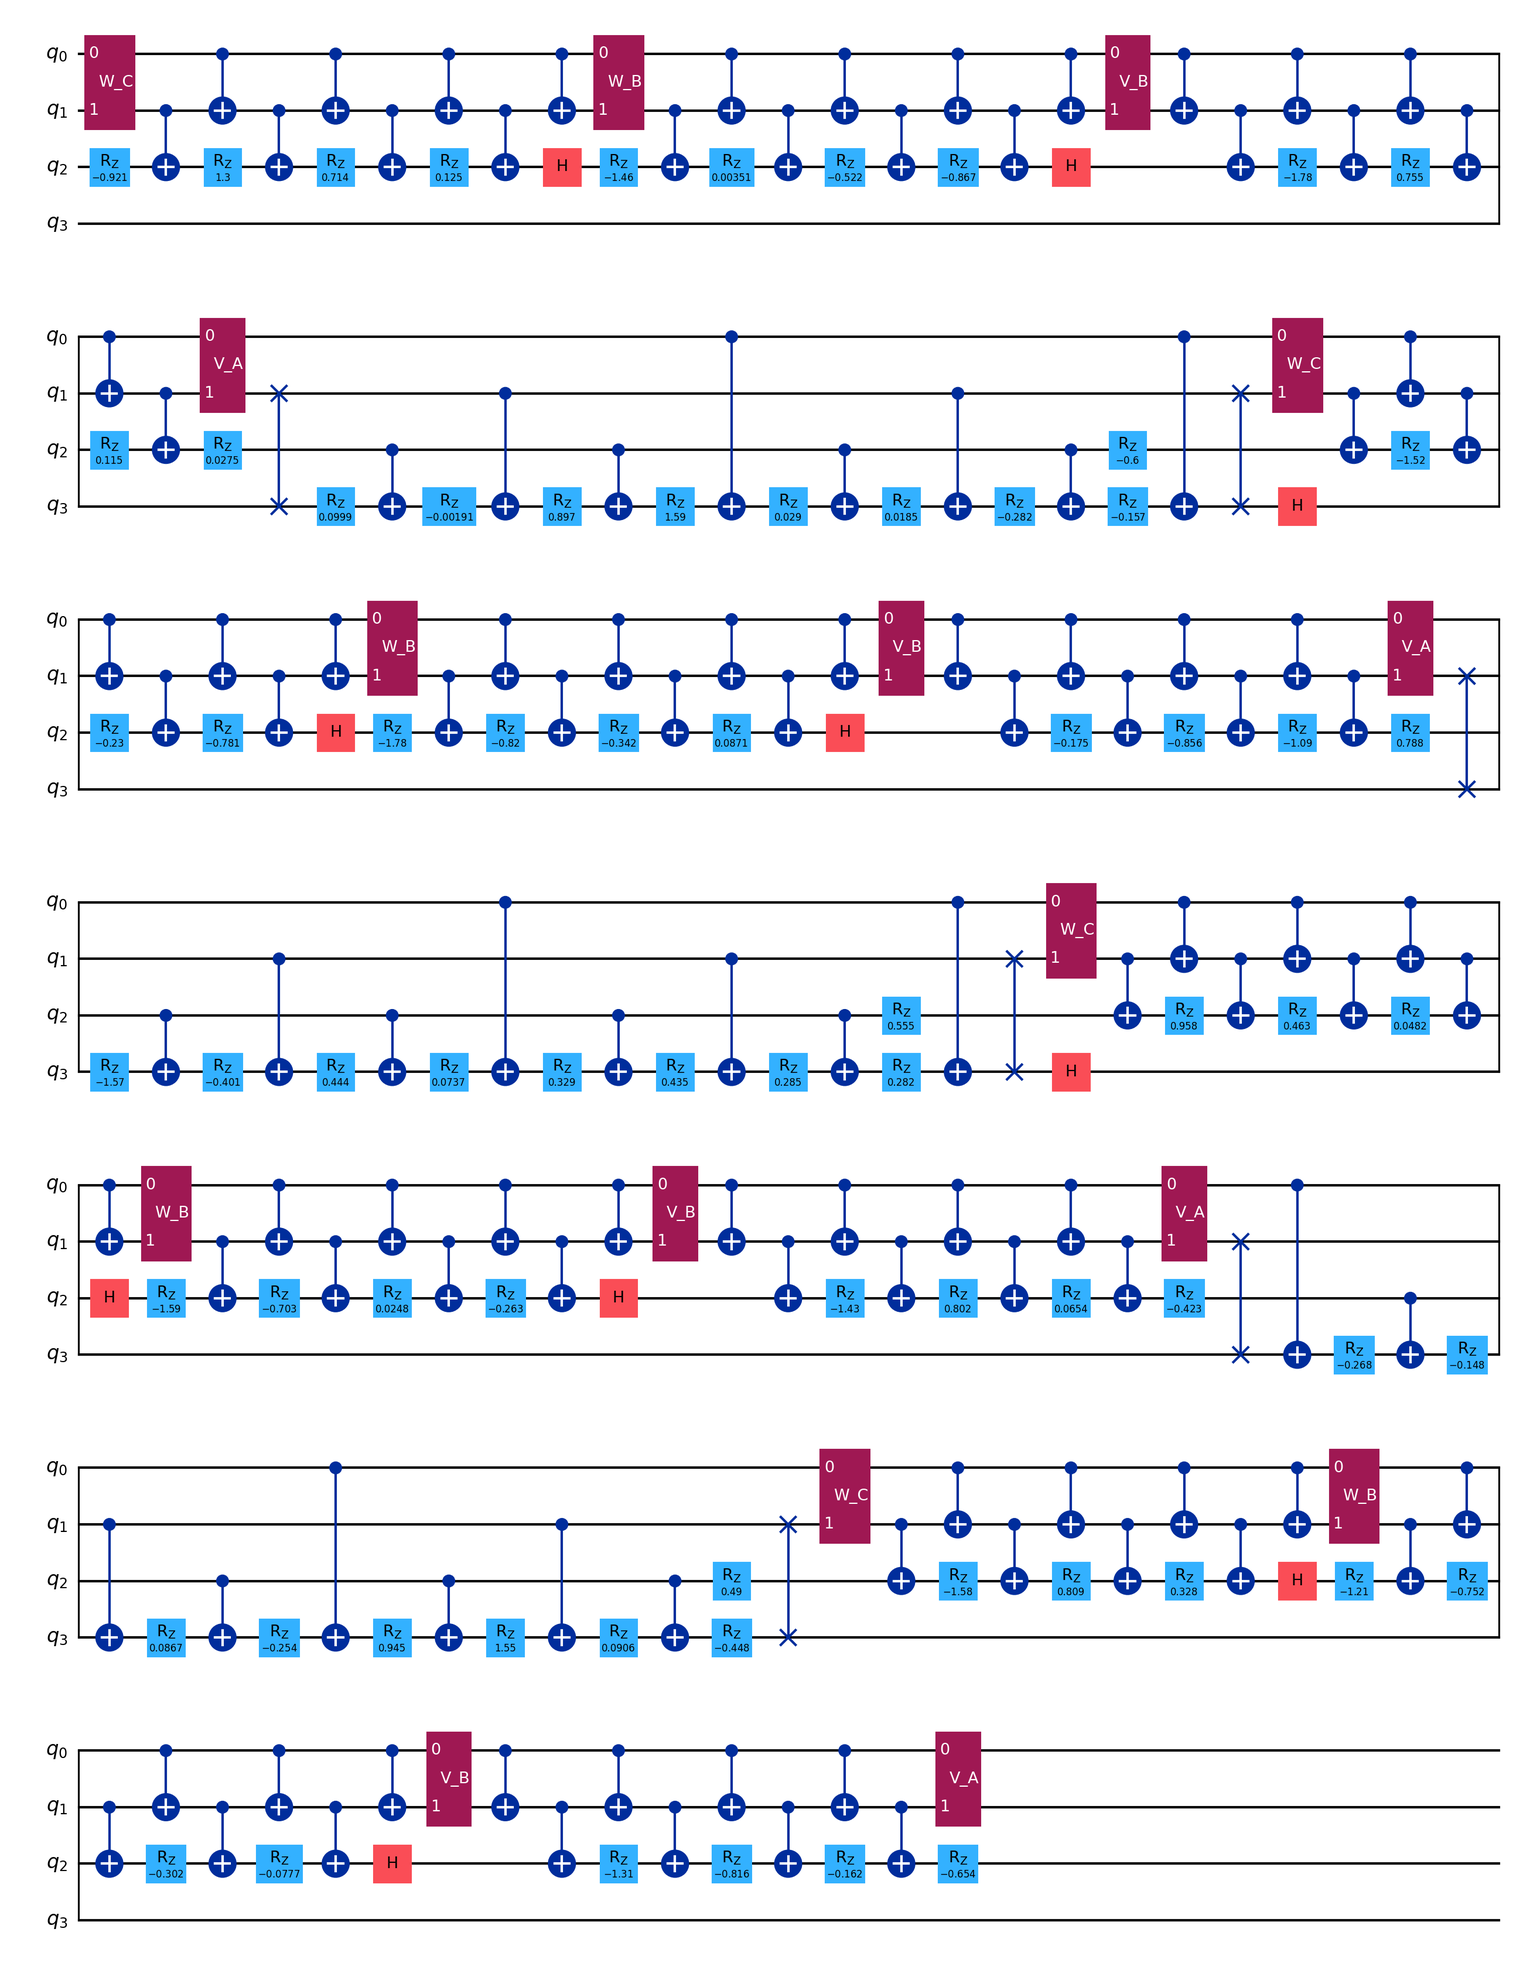
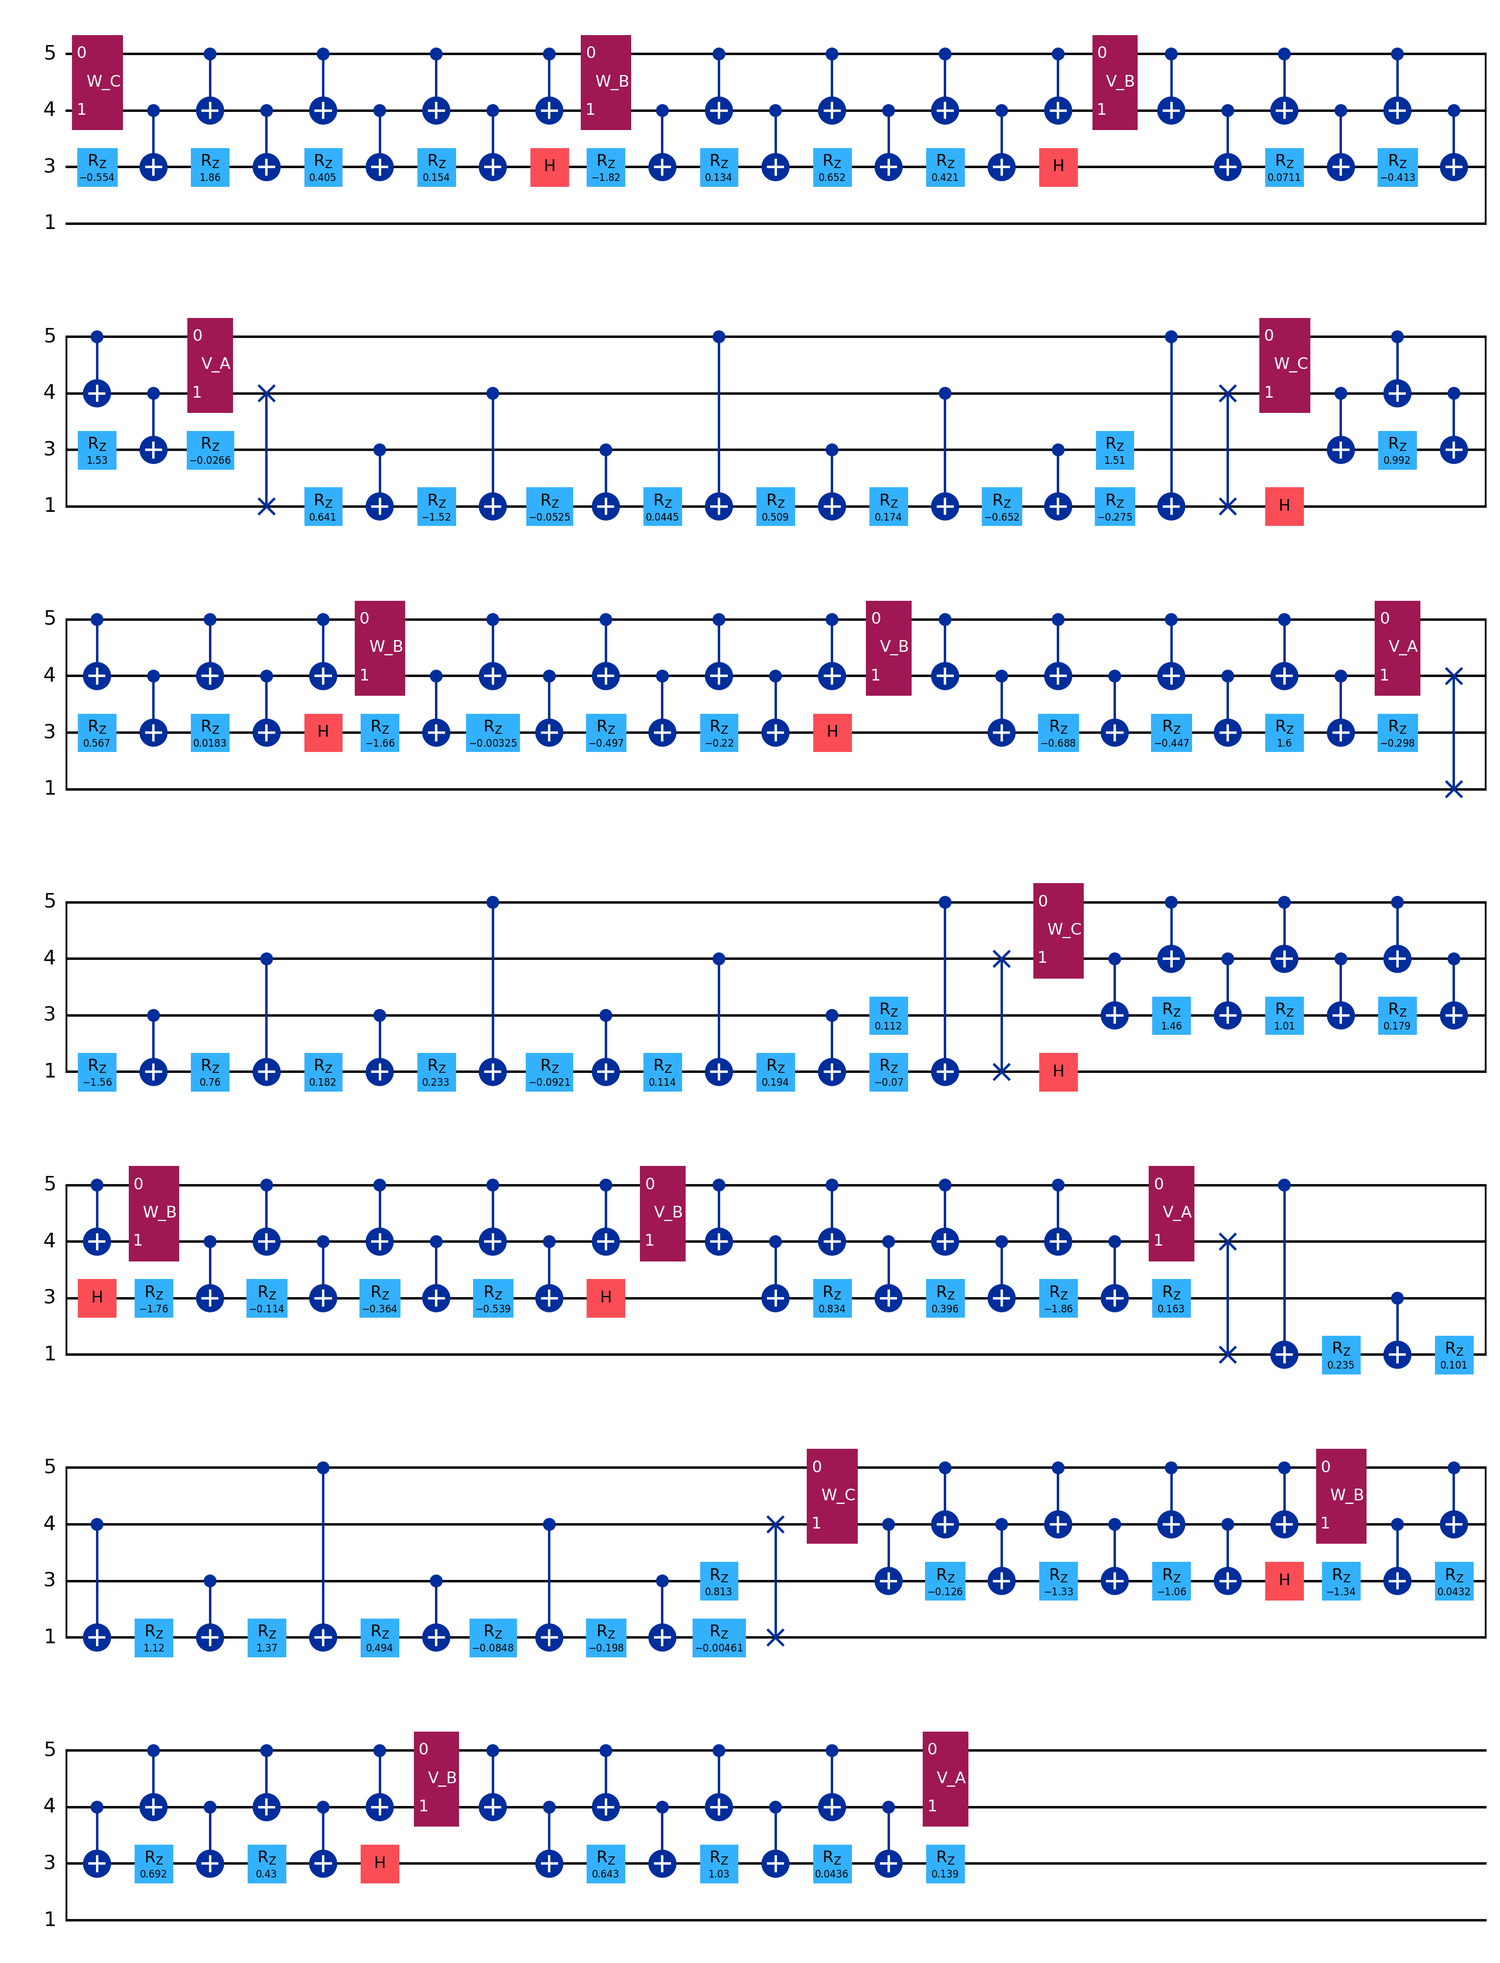
The algorithm now works for 3, 4 and 5 qubit unitaries. For 6, it works sometimes and sometimes not. It might be in how the algo handles the disconnected graph. Also check CNOT unitary construction. Also, bad news from benchmarking. The strategy is all wrong. Instead of trying to optimize CNOT count

diff --git a/routing_for_QSD/block_zxz.py b/routing_for_QSD/block_zxz.py
@@ -4,7 +4,7 @@ import json
 from utils import extract_single_qubit_unitaries, extract_angles, möttönen_transformation, generate_U, check_equivalence_up_to_phase, get_path
 from architecture_aware_routing import RoutedMultiplexer
 from collections import deque
-from qiskit.circuit import QuantumCircuit
+from qiskit.circuit import QuantumCircuit, QuantumRegister
 from qiskit.circuit.library import UnitaryGate
 from qiskit.compiler import transpile
 from qiskit_aer import Aer
@@ -25,6 +25,7 @@ class BlockZXZ(object):
 
     def print_circ_unitary(self, qc):
         qc = qc.copy()
+        print(qc.count_ops())
         qc = transpile(qc, optimization_level=0, basis_gates=['cx', 'h', 'x', 'rz', 'rx', 'ry'])
         qc.save_unitary()
         simulator = Aer.get_backend('aer_simulator')
@@ -42,9 +43,9 @@ class BlockZXZ(object):
             fig = qc.draw(output="mpl", interactive=True, filename=filename)
         else:
             fig = qc.draw(output="mpl", interactive=True)
-        plt.show()
+        # plt.show()
 
-    def get_closest_unitary(matrix):
+    def get_closest_unitary(self, matrix):
         """
         Computes the closest unitary matrix to the input using SVD.
         This fixes the precision loss from copy-pasting.
@@ -92,6 +93,7 @@ class BlockZXZ(object):
             self.diag = diag_u
         else:
             gates = three_cnot_decomposition(u, new_source)
+        # gates = three_cnot_decomposition(u, new_source)
         self.gate_queue.append(gates)
 
         _ = self.swap_to_adjacent(self.two_qubit_unitary_path)
@@ -180,28 +182,30 @@ class BlockZXZ(object):
             self.routed_multiplexers[0] = routed_multiplexer
             self.total_qubits = num_qubits
         else:
-            self.routed_multiplexers[recursion_level].multiplexer_angles = transformed_angles_C
+            self.routed_multiplexers[recursion_level].multiplexer_angles = transformed_angles_C #Check this
+            self.original_multiplexers[recursion_level].multiplexer_angles = transformed_angles_C 
 
         
 
         def compute_multiplexers(B_tilde, execute_only = False):
             _, gates_C = self.routed_multiplexers[recursion_level].map_grey_gates_to_arch(set_last_two_adjacent = True, execute_only=execute_only)
             gates_A = self.routed_multiplexers[recursion_level].replace_mapped_angles(transformed_angles_A, True)
+            
 
             cx_gates_merged = 0
-            # while True:
-            #     popped_gate = gates_C.pop()
-            #     if popped_gate[0] == "RZ" or popped_gate[0] == target_qubit + 1 or popped_gate[1] == target_qubit + 1: #These CNOTs (or RZ) cannot be merged into the neighboring unitaries
-            #         gates_C.append(popped_gate)
-            #         break
+            while True:
+                popped_gate = gates_C.pop()
+                if popped_gate[0] == "RZ" or popped_gate[0] >= target_qubit + 1 or popped_gate[1] >= target_qubit + 1: #These CNOTs (or RZ) cannot be merged into the neighboring unitaries
+                    gates_C.append(popped_gate)
+                    break
 
-            #     gates_A.popleft()
-            #     unitary = self.get_cnot_unitary(num_qubits, popped_gate)
+                gates_A.popleft()
+                unitary = self.get_cnot_unitary(num_qubits, popped_gate)
 
-            #     if popped_gate[1] == target_qubit: unitary = np.kron(H, I) @ unitary @ np.kron(H, I) #Position of H might vary
+                if popped_gate[1] == target_qubit: unitary = np.kron(H, I) @ unitary @ np.kron(H, I) #Position of H might vary
 
-            #     B_tilde = unitary @ B_tilde @ unitary
-            #     cx_gates_merged += 1
+                B_tilde = unitary @ B_tilde @ unitary
+                cx_gates_merged += 1
 
             B_11 = B_tilde[:block_len, :block_len]
             B_22 = B_tilde[block_len:, block_len:]
@@ -224,8 +228,8 @@ class BlockZXZ(object):
 
         if self.optimal_multiplexers.get(recursion_level) != None:
             self.routed_multiplexers[recursion_level] = self.optimal_multiplexers[recursion_level].copy() #If the optimal routing has already been found, we use it instead of computing it again
+            self.routed_multiplexers[recursion_level].multiplexer_angles = transformed_angles_C
             skip_swap_search = True
-        
         gates_A, gates_C, V_B, gates_B, W_B, path_to_furthest, current_recursion_level_cx_count = compute_multiplexers(B_tilde, execute_only)
         if init: 
             self.original_multiplexers[recursion_level] = self.routed_multiplexers[recursion_level].copy() #This is the first multiplexer with no swapping. This is then modified in every recursion step
@@ -240,10 +244,6 @@ class BlockZXZ(object):
         optimal_W_B = W_B
 
         if len(path_to_furthest) >= 3 and not skip_swap_search:
-            swap_map = {x: x for x in range(self.total_qubits)}
-            self.swap_maps[recursion_level] = swap_map
-            self.swaps_per_level[recursion_level] = None
-
             for i in range(len(path_to_furthest) - 2):
                 
                 original_grey_to_arch = self.routed_multiplexers[recursion_level].grey_to_arch_map.copy()
@@ -282,25 +282,42 @@ class BlockZXZ(object):
                     optimal_W_B = W_B
 
                 self.routed_multiplexers[recursion_level] = self.original_multiplexers[recursion_level].copy() #Reset to original after every swap iteration
-                
+
+        if self.swap_maps.get(recursion_level) != None:
             new_gates_A = deque()
             new_gates_B = deque()
             new_gates_C = deque()
 
             for gate in optimal_gates_A:
-                if gate[0] == "RZ": new_gates_A.append(("RZ", gate[1], swap_map[gate[2]]))
-                else: new_gates_A.append((swap_map[gate[0]], swap_map[gate[1]]))
+                if gate[0] == "RZ": 
+                    target = self.swap_maps[recursion_level][gate[2]] if self.swap_maps[recursion_level].get(gate[2]) != None else gate[2]
+                    new_gates_A.append(("RZ", gate[1], target))
+                else:
+                    control = self.swap_maps[recursion_level][gate[0]] if self.swap_maps[recursion_level].get(gate[0]) != None else gate[0]
+                    target = self.swap_maps[recursion_level][gate[1]] if self.swap_maps[recursion_level].get(gate[1]) != None else gate[1]
+                    new_gates_A.append((control, target))
             for gate in optimal_gates_B:
-                if gate[0] == "RZ": new_gates_B.append(("RZ", gate[1], swap_map[gate[2]]))
-                else: new_gates_B.append((swap_map[gate[0]], swap_map[gate[1]]))
+                if gate[0] == "RZ": 
+                    target = self.swap_maps[recursion_level][gate[2]] if self.swap_maps[recursion_level].get(gate[2]) != None else gate[2]
+                    new_gates_B.append(("RZ", gate[1], target))
+                else:
+                    control = self.swap_maps[recursion_level][gate[0]] if self.swap_maps[recursion_level].get(gate[0]) != None else gate[0]
+                    target = self.swap_maps[recursion_level][gate[1]] if self.swap_maps[recursion_level].get(gate[1]) != None else gate[1]
+                    new_gates_B.append((control, target))
             for gate in optimal_gates_C:
-                if gate[0] == "RZ": new_gates_C.append(("RZ", gate[1], swap_map[gate[2]]))
-                else: new_gates_C.append((swap_map[gate[0]], swap_map[gate[1]]))
+                if gate[0] == "RZ": 
+                    target = self.swap_maps[recursion_level][gate[2]] if self.swap_maps[recursion_level].get(gate[2]) != None else gate[2]
+                    new_gates_C.append(("RZ", gate[1], target))
+                else: 
+                    control = self.swap_maps[recursion_level][gate[0]] if self.swap_maps[recursion_level].get(gate[0]) != None else gate[0]
+                    target = self.swap_maps[recursion_level][gate[1]] if self.swap_maps[recursion_level].get(gate[1]) != None else gate[1]
+                    new_gates_C.append((control, target))
 
-            optimal_gates_A = new_gates_A
-            optimal_gates_B = new_gates_B
-            optimal_gates_C = new_gates_C
-       
+            optimal_gates_A = new_gates_A.copy()
+            optimal_gates_B = new_gates_B.copy()
+            optimal_gates_C = new_gates_C.copy()
+
+        
 
         next_routed_multiplexer = self.routed_multiplexers[recursion_level].copy()
         next_num_qubits = num_qubits - 1
@@ -319,19 +336,13 @@ class BlockZXZ(object):
 
         #THIS IS REVERSED FOR A REASON
         #Reason being: we need to decompose the last two qubit unitary first and only then migrate the diagonals through the circuit
-        if num_qubits == 3 : 
-            self.gate_queue.append((V_A, "V_A"))
-        else:
-            self.compute_decomposition(V_A, rightmost_unitary = rightmost_unitary, leftmost_unitary=False, recursion_level = recursion_level + 1)
+        self.compute_decomposition(V_A, rightmost_unitary = rightmost_unitary, leftmost_unitary=False, recursion_level = recursion_level + 1)
 
         if self.swaps_per_level.get(recursion_level) != None: self.swap_to_adjacent(self.swaps_per_level[recursion_level], reverse = True)
         self.gate_queue.append(optimal_gates_A)
         if self.swaps_per_level.get(recursion_level) != None: self.swap_to_adjacent(self.swaps_per_level[recursion_level], reverse = False)
 
-        if num_qubits == 3 : 
-            self.gate_queue.append((optimal_V_B, "V_B"))
-        else:
-            self.compute_decomposition(optimal_V_B, rightmost_unitary = False, leftmost_unitary=False, recursion_level = recursion_level + 1)
+        self.compute_decomposition(optimal_V_B, rightmost_unitary = False, leftmost_unitary=False, recursion_level = recursion_level + 1)
 
 
         self.gate_queue.append(("H", target_qubit))
@@ -340,10 +351,7 @@ class BlockZXZ(object):
         if self.swaps_per_level.get(recursion_level) != None: self.swap_to_adjacent(self.swaps_per_level[recursion_level], reverse = False)
         self.gate_queue.append(("H", target_qubit))
 
-        if num_qubits == 3 : 
-            self.gate_queue.append((optimal_W_B, "W_B"))
-        else:
-            self.compute_decomposition(optimal_W_B, rightmost_unitary = False, leftmost_unitary=False,  recursion_level = recursion_level + 1)
+        self.compute_decomposition(optimal_W_B, rightmost_unitary = False, leftmost_unitary=False,  recursion_level = recursion_level + 1)
 
 
         
@@ -351,21 +359,21 @@ class BlockZXZ(object):
         self.gate_queue.append(optimal_gates_C)
         if self.swaps_per_level.get(recursion_level) != None: self.swap_to_adjacent(self.swaps_per_level[recursion_level], reverse = False)
 
-        if num_qubits == 3 : 
-            self.gate_queue.append((W_C, "W_C"))
-        else:
-            self.compute_decomposition(W_C, rightmost_unitary = False, leftmost_unitary = leftmost_unitary, recursion_level = recursion_level + 1)
+        self.compute_decomposition(W_C, rightmost_unitary = False, leftmost_unitary = leftmost_unitary, recursion_level = recursion_level + 1)
         
 
 if __name__ == "__main__":
     with open(f"coupling_maps/fake_garnet.json") as f:
         fake_garnet = json.load(f)
 
-    num_qubits = 4
+    num_qubits = 6
     U = generate_U(num_qubits)
+
+    
     zxz = BlockZXZ(coupling_map=fake_garnet)
     zxz.compute_decomposition(U, init = True, rightmost_unitary = True, leftmost_unitary = True)
-    qc = QuantumCircuit(num_qubits)
+    qubits = [QuantumRegister(1, name=f'{zxz.routed_multiplexers[0].grey_to_arch_map[i]}') for i in range(num_qubits)]
+    qc = QuantumCircuit(*qubits)
 
     cx_count = 0
 
@@ -391,13 +399,23 @@ if __name__ == "__main__":
                         qc.swap(gates[1][0], gates[1][1])
 
         except Exception as e:
-            print(e)
+            # print(e)
             break
 
     print(f"CX count: {cx_count}")
-    zxz.draw_circuit(qc, "fig3.png")
-    print(zxz.routed_multiplexers[0])
-    print(zxz.routed_multiplexers[1])
+    # zxz.draw_circuit(qc, "fig4.png")
+    print(zxz.routed_multiplexers.get(0))
+    print(zxz.routed_multiplexers.get(1))
+    print(zxz.routed_multiplexers.get(2))
+    print(zxz.routed_multiplexers.get(3))
+
+    print(zxz.optimal_multiplexers.get(0))
+    print(zxz.optimal_multiplexers.get(1))
+    print(zxz.optimal_multiplexers.get(2))
+    print(zxz.optimal_multiplexers.get(3))
+    # print(zxz.swap_maps[0])
+    # print(zxz.swap_maps[1])
+    # print(zxz.swap_maps[2])
     recon = zxz.print_circ_unitary(qc)
     # print(recon)
     is_equiv, phase = check_equivalence_up_to_phase(U, recon)

diff --git a/routing_for_QSD/architecture_aware_routing.py b/routing_for_QSD/architecture_aware_routing.py
@@ -31,6 +31,7 @@ class RoutedMultiplexer(object):
 
         self.neighbors = self.get_neighbors()
         self.vertices = list(self.neighbors.copy().keys())
+        self._num_qubits = self.num_qubits
 
         assert len(self.vertices) >= self.num_qubits, "Not enough qubits on the hardware."
     
@@ -127,9 +128,11 @@ class RoutedMultiplexer(object):
             grey_to_arch_map[0] = furthest_node
             grey_to_arch_map[1] = second_furthest_node
 
+
             for key, grey_key in zip(list(optimal_neighborhood.keys()), range(self.num_controls, 1, -1)):
                 grey_to_arch_map[grey_key] = key
 
+            
             self.root = grey_to_arch_map[self.num_controls]
             self.grey_to_arch_map = grey_to_arch_map
             self.arch_qubits = list(grey_to_arch_map.values()).copy()
@@ -138,7 +141,6 @@ class RoutedMultiplexer(object):
             self.arch_to_grey_map = {}
             for key, value in self.grey_to_arch_map.items():
                 self.arch_to_grey_map[value] = key
-
         else:
             furthest_node = furthest_node_path[-1]
             closest_node = furthest_node_path[1]
@@ -180,7 +182,7 @@ class RoutedMultiplexer(object):
             self.gate_queue.append(cnot)
         
         if cnot[1] == self.num_controls:
-            if self.state[self.num_controls] not in self.discovered_pp_terms:
+            if self.state[self.num_controls] not in self.discovered_pp_terms and self.state[self.num_controls] in self.pp_terms:
                 self.discovered_pp_terms.add(self.state[self.num_controls])
                 self.gate_queue.append(("RZ", self.state_to_angle_dict[self.state[self.num_controls]], self.num_controls))
             elif ignore and self.state[self.num_controls] in self.discovered_pp_terms:
@@ -252,7 +254,7 @@ class RoutedMultiplexer(object):
 
         self.pp_terms = set([x for x in range(2 ** self.num_controls, 2 ** self.num_qubits)])
         self.discovered_pp_terms = set([2 ** self.num_controls])
-        self.state = {q: 1 << q for q in range(self.num_qubits)}
+        self.state = {q: 1 << q for q in range(self._num_qubits)}
         self.state_to_angle_dict = dict(zip(grey_state_queue, self.multiplexer_angles))
         init_state = self.state.copy()
 
@@ -335,6 +337,7 @@ class RoutedMultiplexer(object):
     def copy(self):
         cp = RoutedMultiplexer(list(self.multiplexer_angles.copy()), self.coupling_map.copy(), self.num_qubits, self.reverse)
         cp.num_qubits = self.num_qubits
+        cp._num_qubits = self._num_qubits
         cp.num_controls = self.num_controls
         cp.neighbors = self.neighbors.copy()
         cp.vertices = self.vertices.copy()

diff --git a/routing_for_QSD/benchmark_unitary_synth.py b/routing_for_QSD/benchmark_unitary_synth.py
@@ -1,0 +1,20 @@
+from qiskit.circuit import QuantumCircuit, QuantumRegister
+from qiskit.circuit.library import UnitaryGate
+from utils import extract_single_qubit_unitaries, extract_angles, möttönen_transformation, generate_U, check_equivalence_up_to_phase, get_path
+from qiskit.compiler import transpile
+import json
+
+
+with open(f"coupling_maps/fake_garnet.json") as f:
+        fake_garnet = json.load(f)
+
+num_qubits = 6
+
+U = generate_U(num_qubits)
+
+qc = QuantumCircuit(num_qubits)
+qc.append(UnitaryGate(U), [x for x in range(num_qubits)])
+qc = transpile(qc, optimization_level=3, basis_gates=['cx', 'h', 'x', 'rz', 'rx', 'ry'], coupling_map=fake_garnet)
+print(qc.count_ops())
+
+
